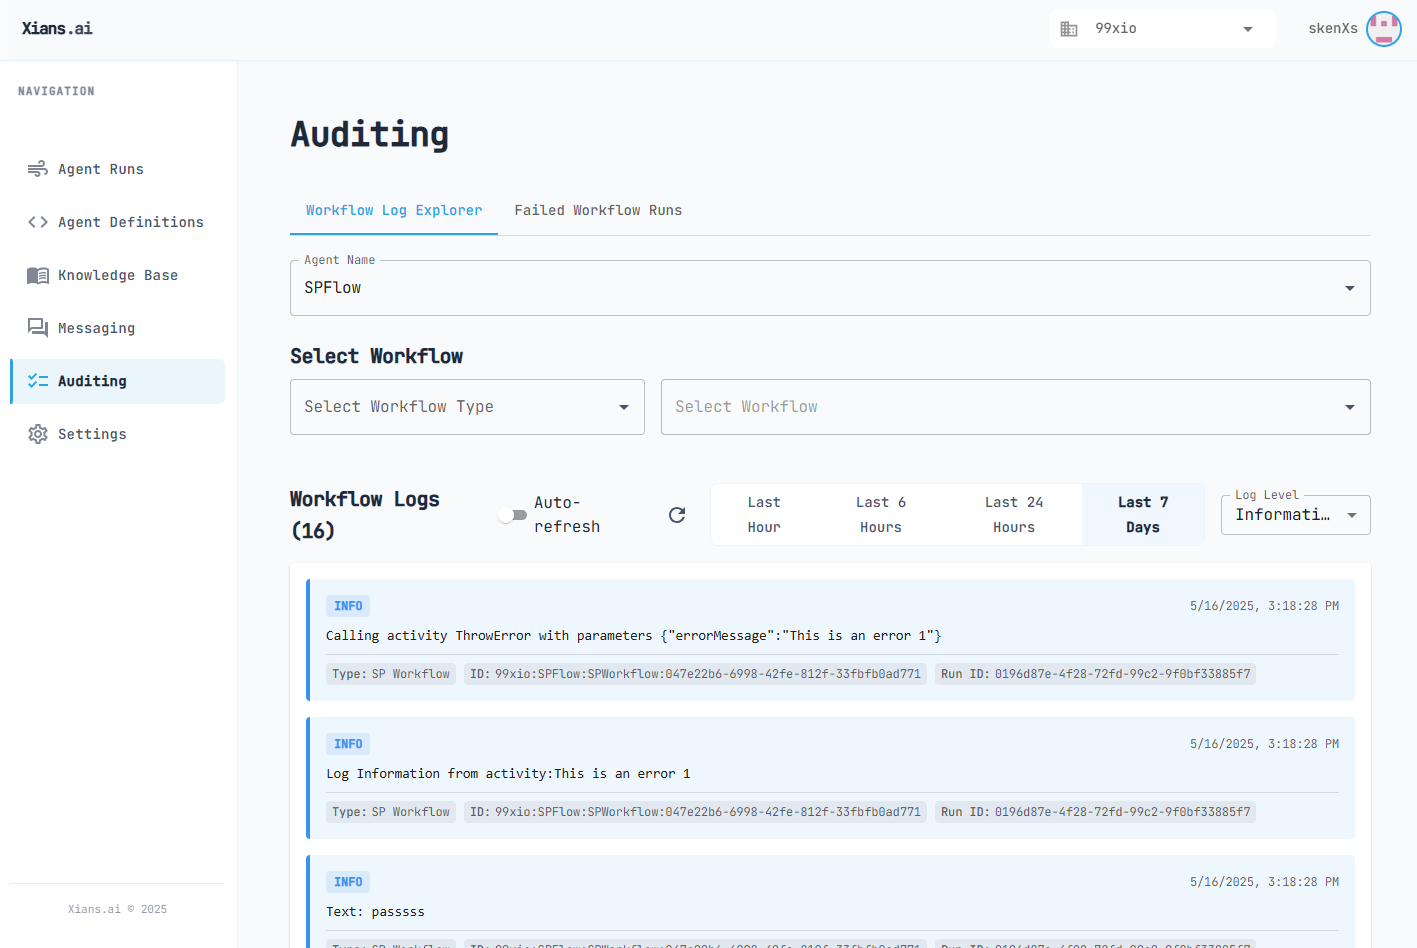
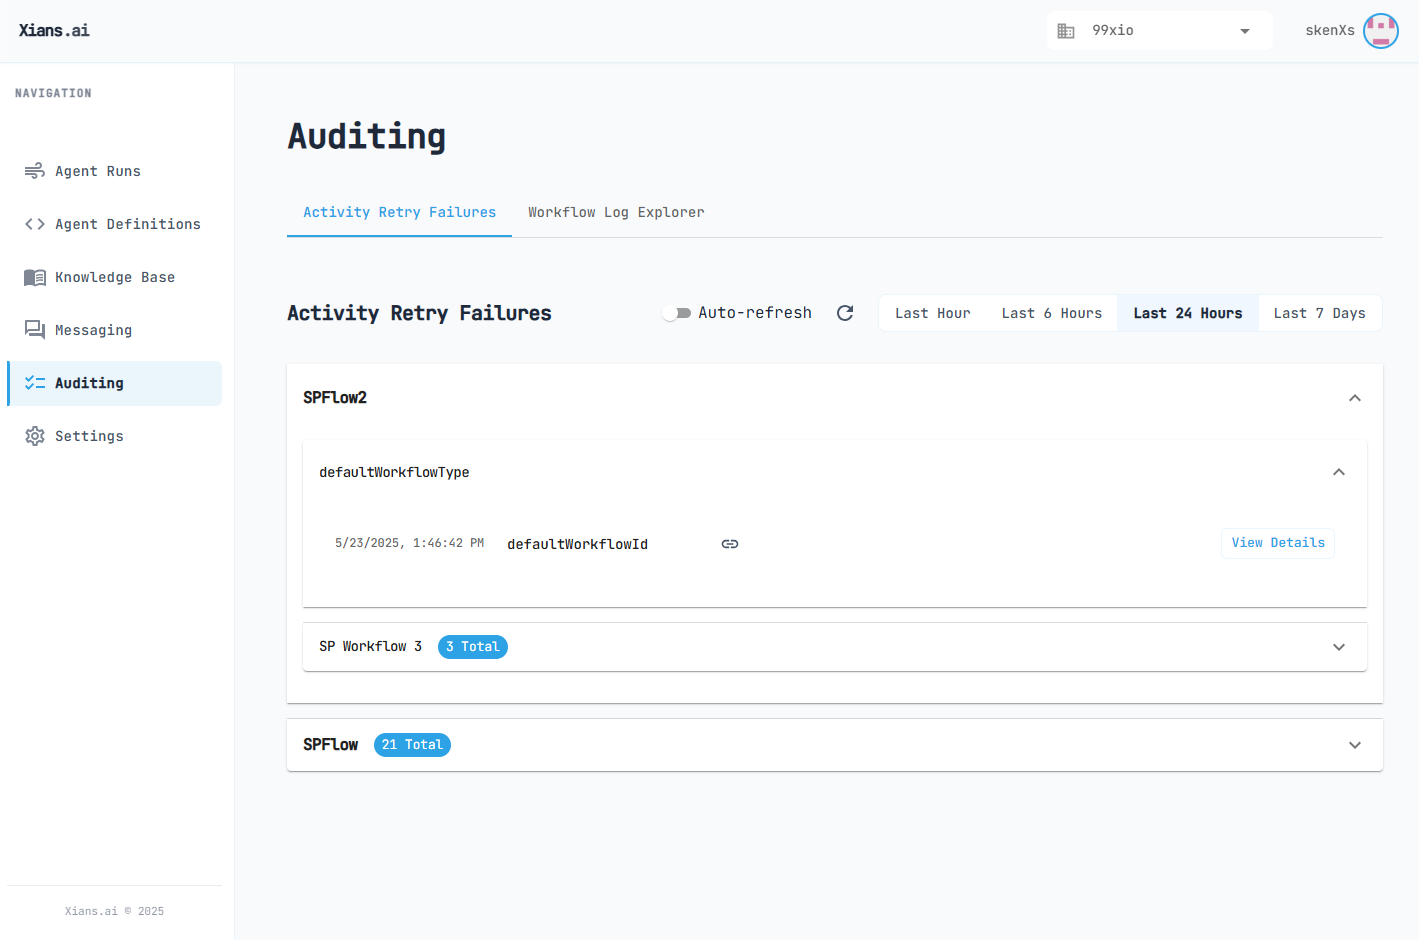
Update logging documentation to introduce the Activity Retry Failures section, detailing critical workflow error handling and integration with the logging system. Replace the Failed Workflow Runs section with this new content for improved clarity and focus. Update related images for enhanced visual 

diff --git a/docs/n-encyclopedia/logging.md b/docs/n-encyclopedia/logging.md
@@ -173,6 +173,20 @@ _logger.LogCritical("Critical workflow failure", exception);
 
 XiansAi provides a comprehensive auditing interface to help you monitor and troubleshoot your workflows through two main components:
 
+### Activity Retry Failures
+
+The Activity Retry Failures section specifically focuses on critical workflow failures:
+
+* Displays workflows that have encountered critical errors
+* Shows detailed error information and stack traces
+* Highlights workflows requiring immediate attention
+* Provides quick access to related logs and context
+* Automatically notifies administrators of critical failures
+
+These auditing tools are directly integrated with the logging system. When you use `LogCritical` in your workflows, these events are automatically surfaced in the Activity Retry Failures section, making it easy to identify and respond to critical issues quickly.
+
+![Auditing Activity Retry Failures Interface](./img/1-auditing.png)
+
 ### Workflow Log Explorer
 
 The Workflow Log Explorer is a powerful tool that allows you to:
@@ -186,18 +200,5 @@ The Workflow Log Explorer is a powerful tool that allows you to:
     * Time range
 * Track the complete execution history of any workflow
 
-![Auditing Explorer Interface](./img/1-auditing.png)
+![Auditing Workflow Log Explorer Interface](./img/2-auditing.png)
 
-### Failed Workflow Runs
-
-The Failed Workflow Runs section specifically focuses on critical workflow failures:
-
-* Displays workflows that have encountered critical errors
-* Shows detailed error information and stack traces
-* Highlights workflows requiring immediate attention
-* Provides quick access to related logs and context
-* Automatically notifies administrators of critical failures
-
-These auditing tools are directly integrated with the logging system. When you use `LogCritical` in your workflows, these events are automatically surfaced in the Failed Workflow Runs section, making it easy to identify and respond to critical issues quickly.
-
-![Auditing Workflow Fail Interface](./img/2-auditing.png)
